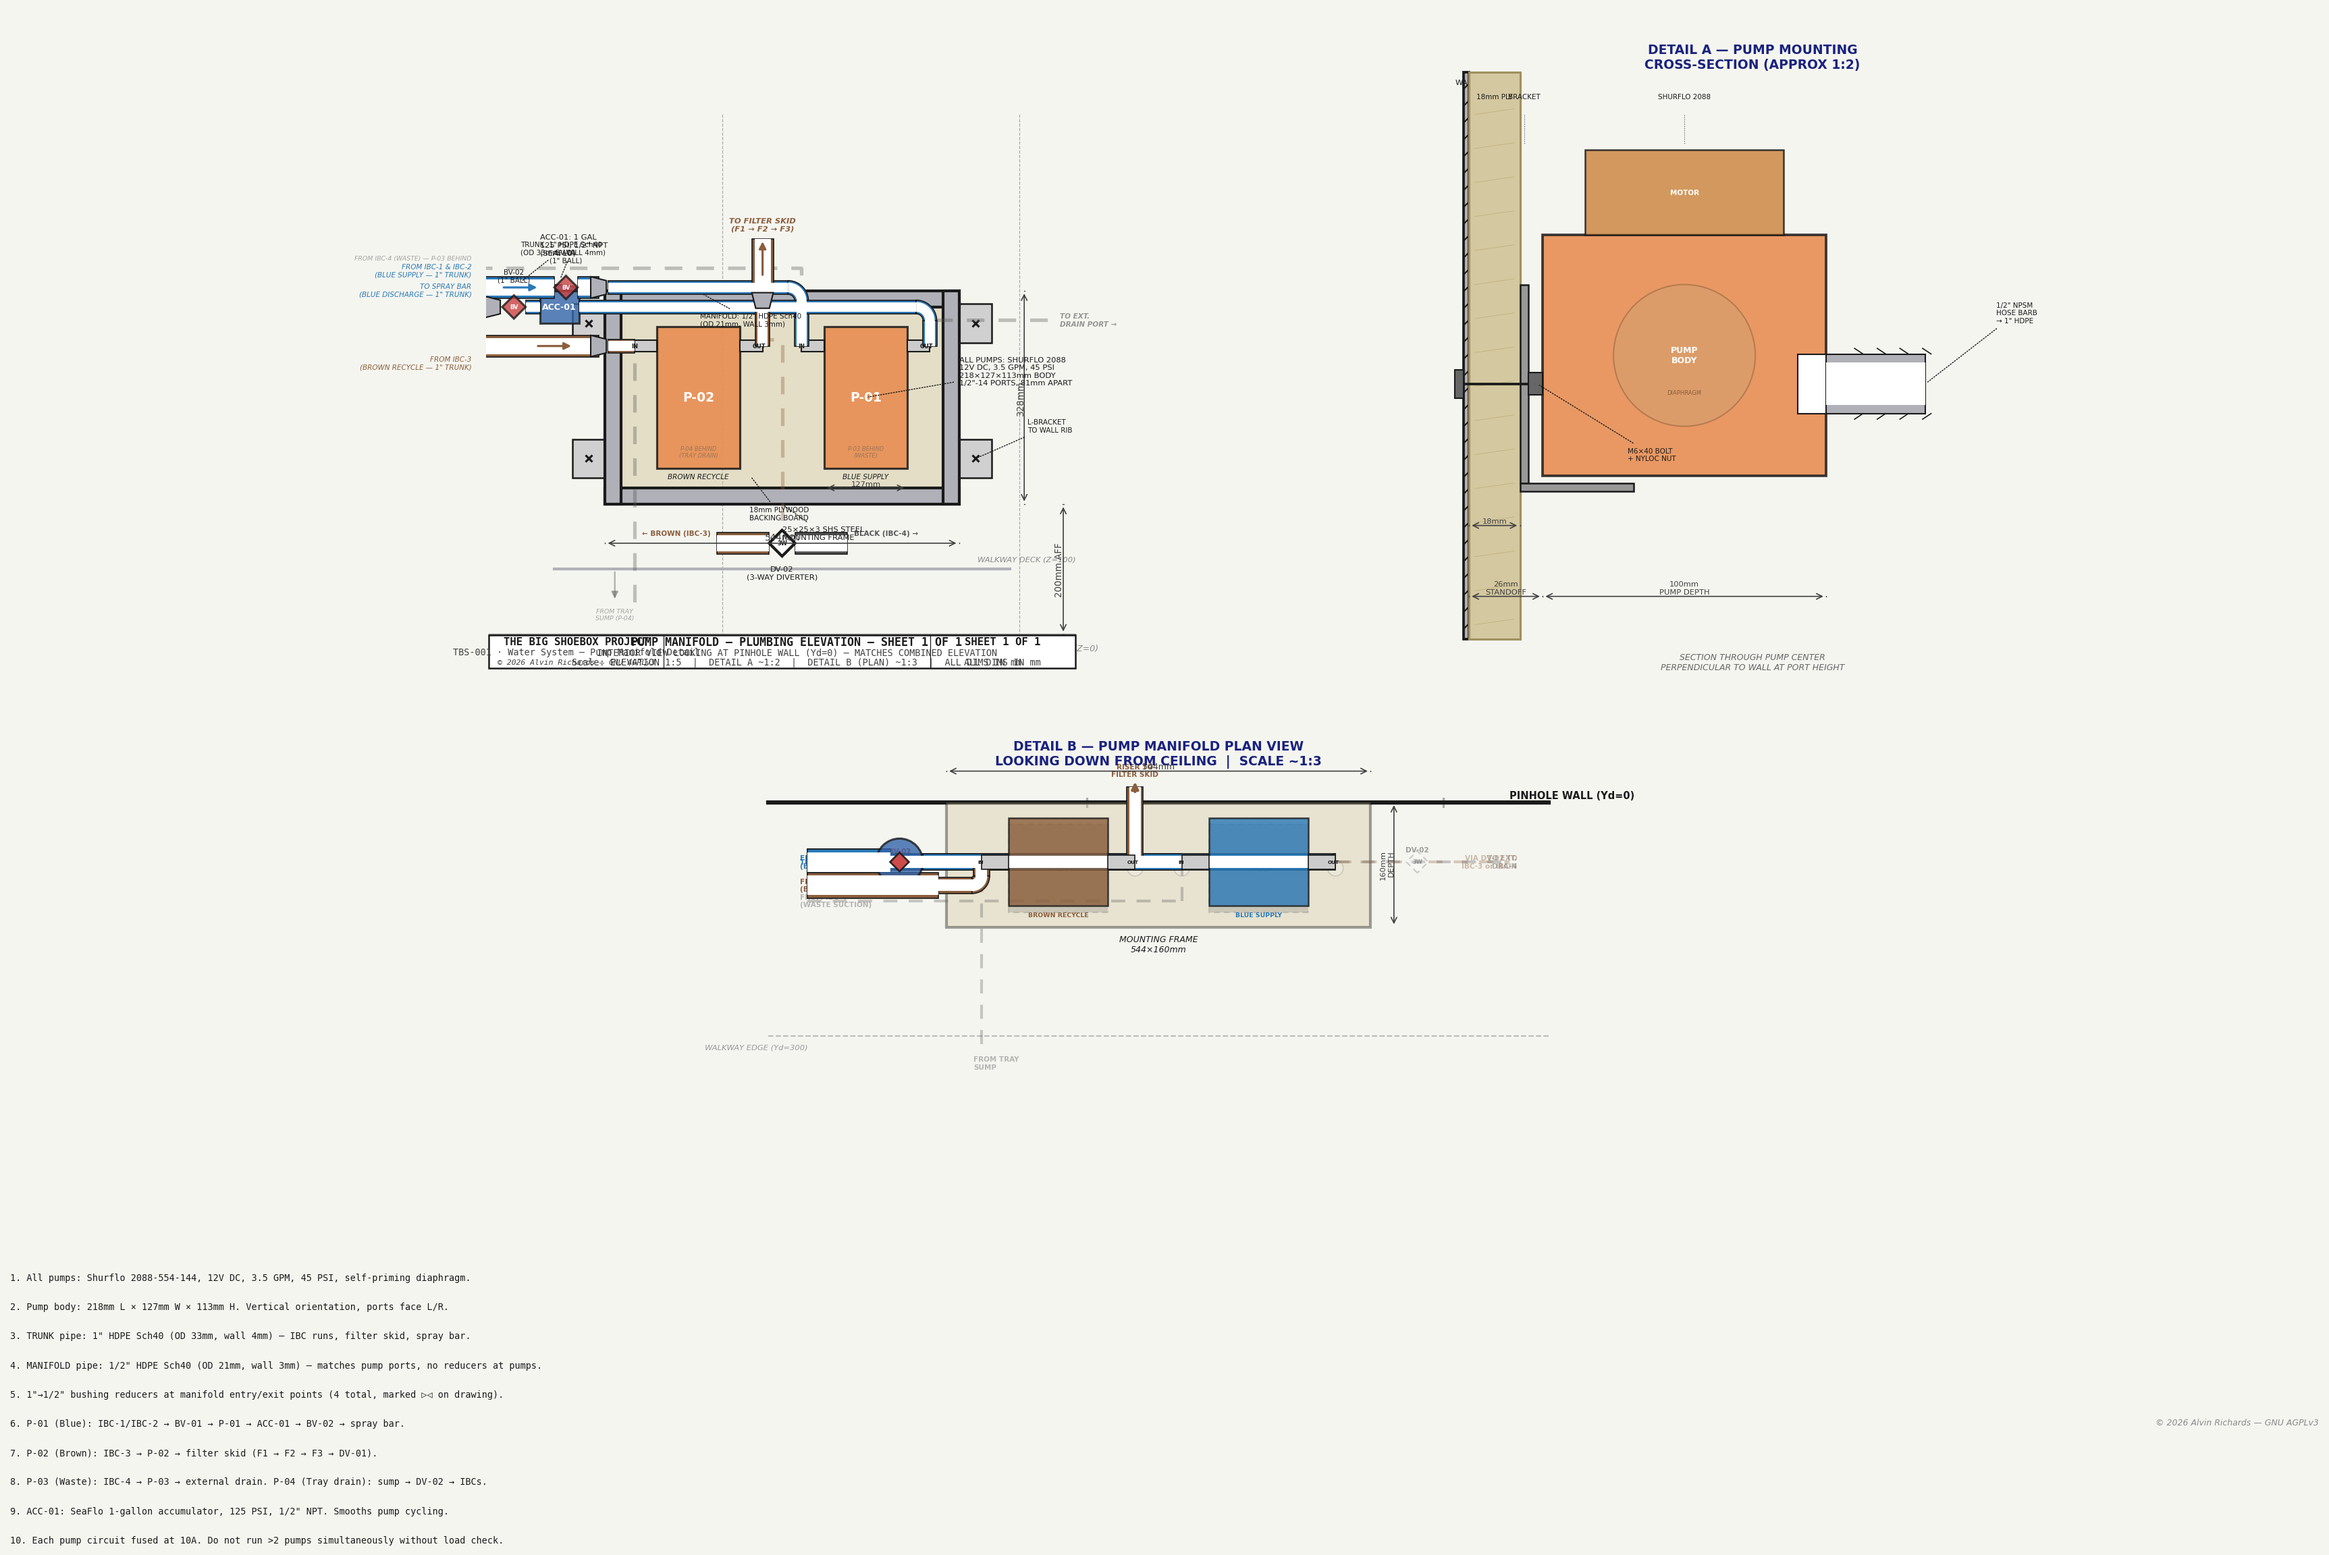
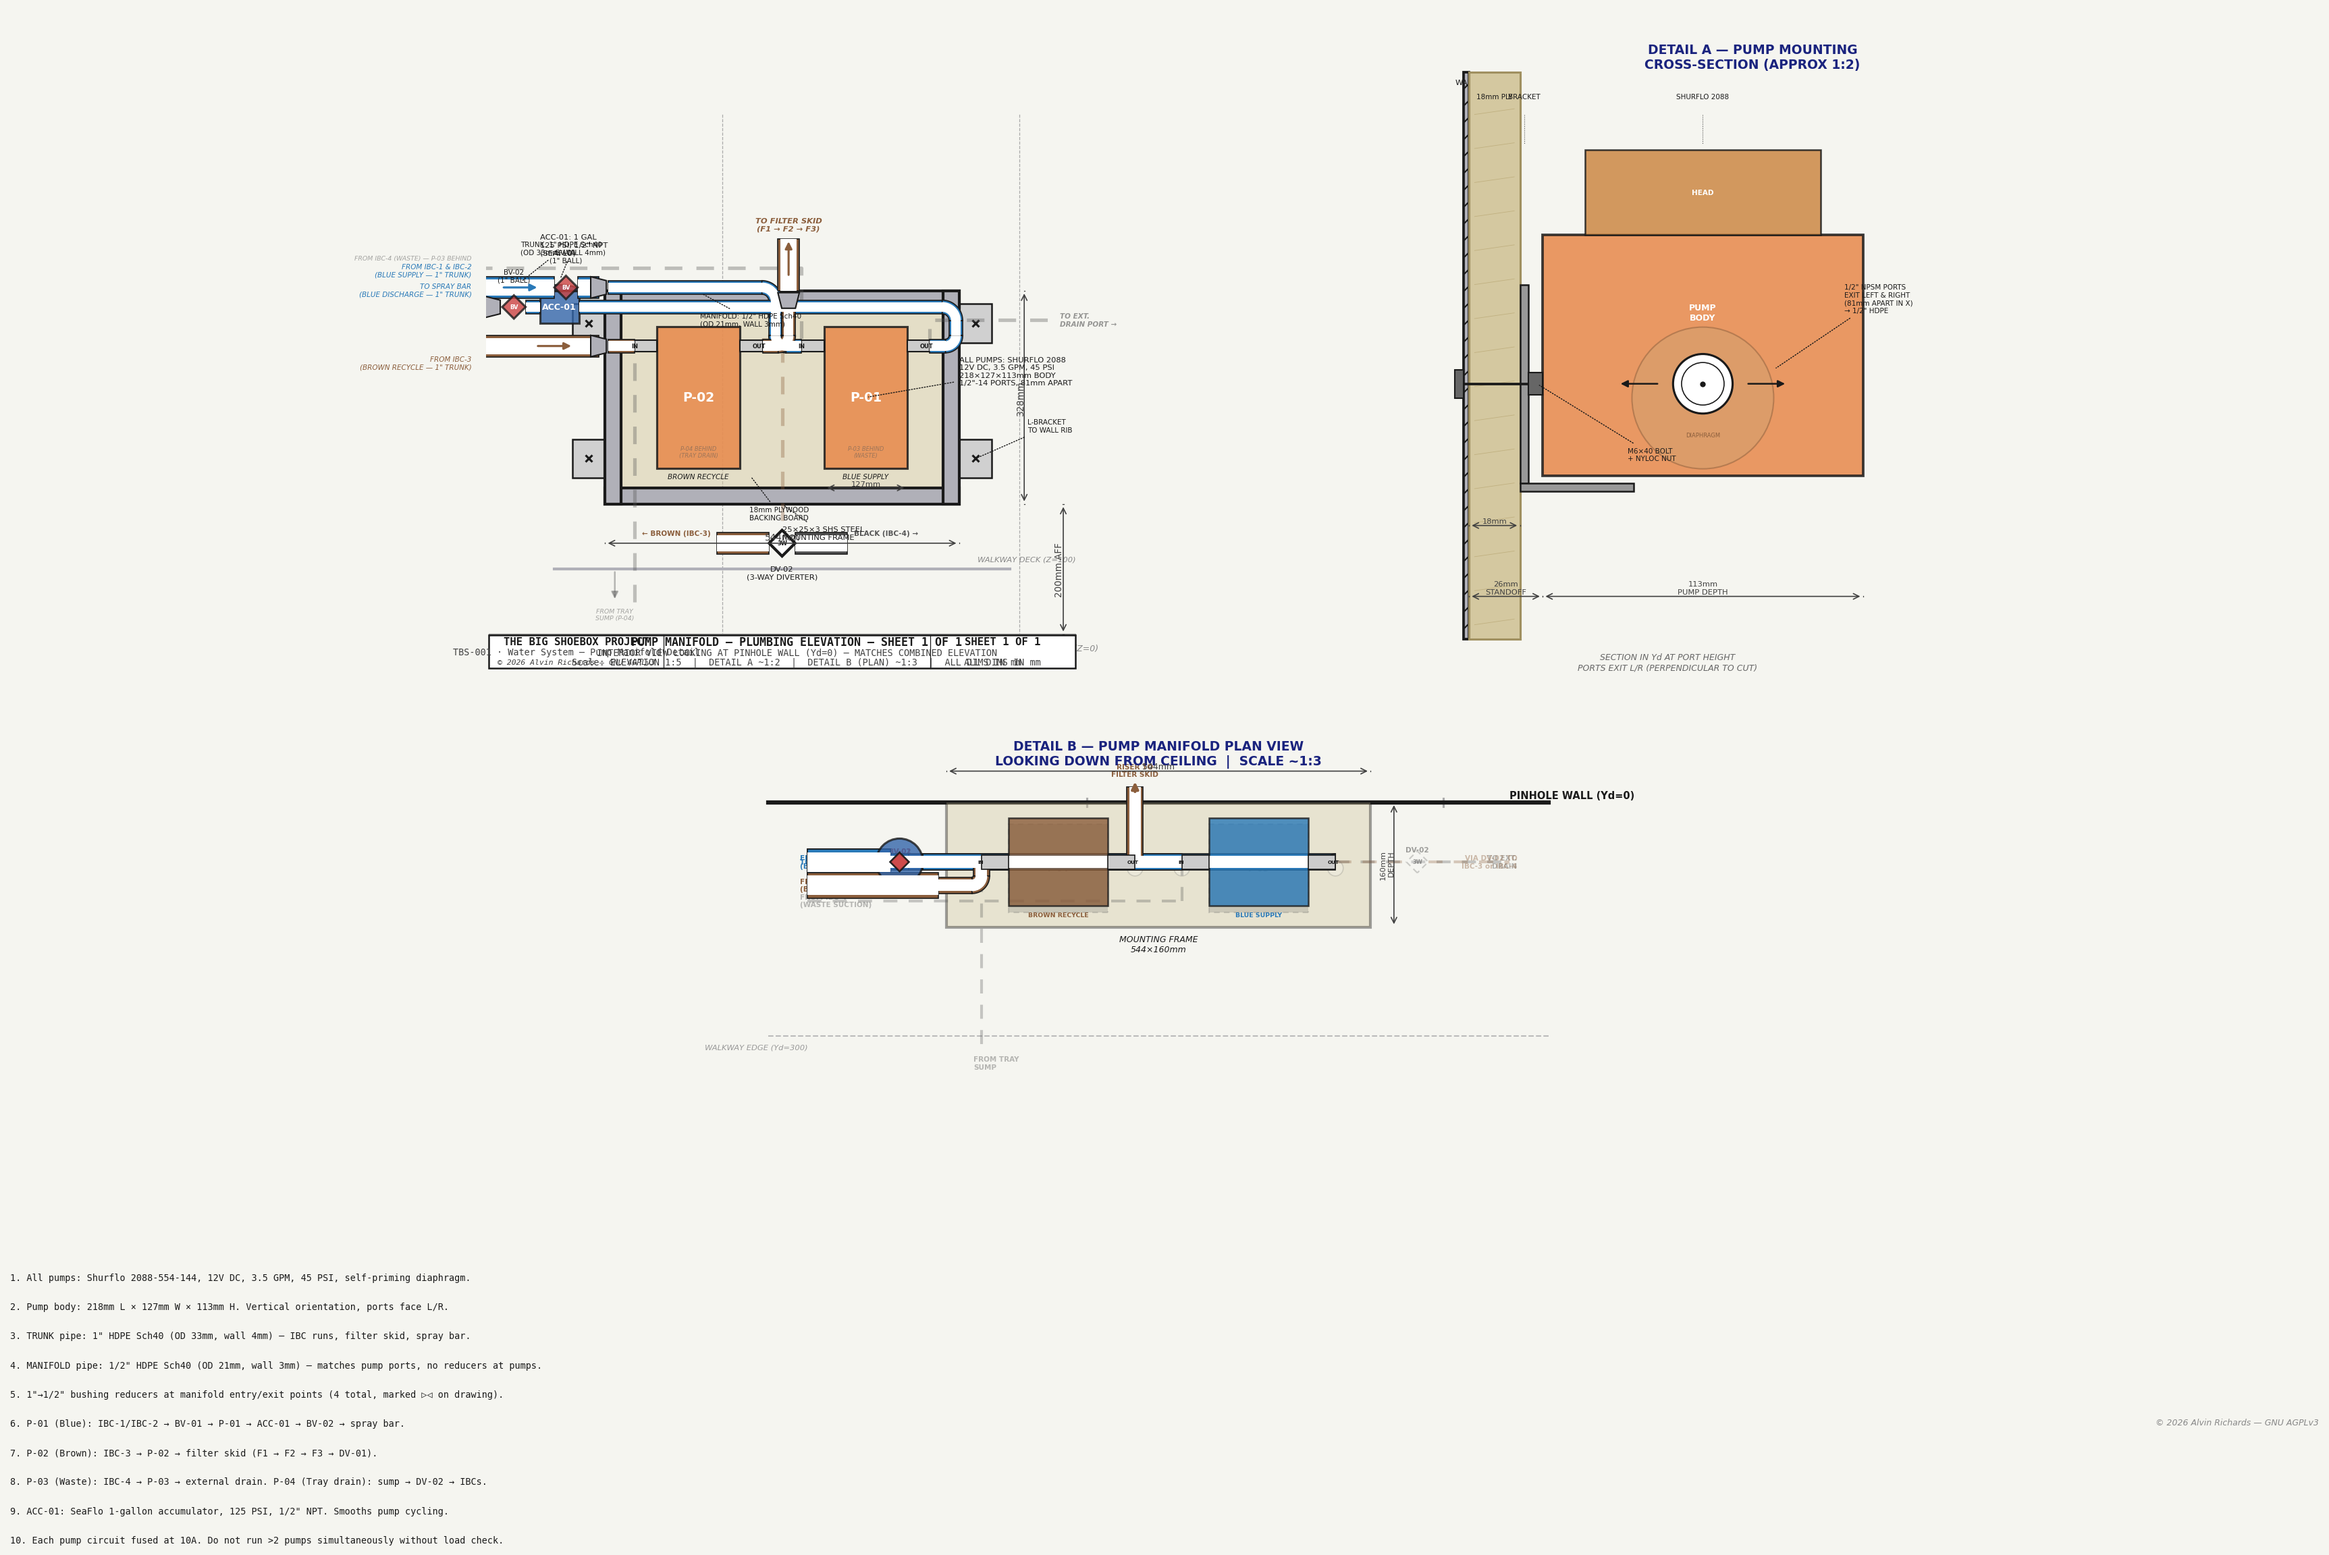
Add 90° elbows at pump port connections, fix Detail A port orientation
Elevation: pipes now show two 90° elbows into each pump — horizontal header
to vertical drop to horizontal port stub. Detail A cross-section updated to
show port as circular bore (exits sideways in X) instead of front-face stub.

Changed region(s): [[0.7133, 0.0938, 0.8374, 0.3125], [0.3101, 0.125, 0.4342, 0.25], [0.7133, 0.4062, 0.7754, 0.4375]]

diff --git a/generate_pump_manifold_diagram.py b/generate_pump_manifold_diagram.py
@@ -519,18 +519,19 @@ draw_pipe_path(ax,
 # Reducer symbol
 draw_reducer(ax, TRANS_BLUE_IN_X, HEADER_Z_BLUE_SUC, "h")
 
-# Manifold (1/2"): reducer → header → drop to P-01 IN port
+# Manifold (1/2"): reducer → header → 90° drop → 90° horizontal into P-01 IN
+ELBOW_OFFSET = 40  # offset from port stub end for visible elbow
 draw_pipe_path(ax,
-    [TRANS_BLUE_IN_X - 15, p01_in_x, p01_in_x],
-    [HEADER_Z_BLUE_SUC, HEADER_Z_BLUE_SUC, PORT_Z],
+    [TRANS_BLUE_IN_X - 15, p01_in_x + ELBOW_OFFSET, p01_in_x + ELBOW_OFFSET, p01_in_x],
+    [HEADER_Z_BLUE_SUC, HEADER_Z_BLUE_SUC, PORT_Z, PORT_Z],
     OD_H, WALL_H, fc=C_BLUE, zorder=6)
 
 # ── Blue discharge: P-01 OUT (1/2") → ACC-01 → BV-02 → reducer → exit (1") ──
 
-# Manifold (1/2"): P-01 OUT → up → ACC-01
+# Manifold (1/2"): P-01 OUT → 90° horizontal left → 90° up → header → ACC-01
 draw_pipe_path(ax,
-    [p01_out_x, p01_out_x, ACC_X],
-    [PORT_Z, HEADER_Z_BLUE_DISCH, HEADER_Z_BLUE_DISCH],
+    [p01_out_x, p01_out_x - ELBOW_OFFSET, p01_out_x - ELBOW_OFFSET, ACC_X],
+    [PORT_Z, PORT_Z, HEADER_Z_BLUE_DISCH, HEADER_Z_BLUE_DISCH],
     OD_H, WALL_H, fc=C_BLUE, zorder=6)
 
 # Manifold (1/2"): ACC-01 exit → BV-02
@@ -568,26 +569,27 @@ draw_pipe_path(ax,
 # ── Brown discharge: P-02 OUT (1/2") → riser → reducer → filter skid (1") ─
 RISER_EXIT_Z = HEADER_Z_BROWN_DISCH + 80
 
-# Manifold (1/2"): P-02 OUT → up to transition Z
+# Manifold (1/2"): P-02 OUT → 90° horizontal left → 90° up to transition Z
 draw_pipe_path(ax,
-    [p02_out_x, p02_out_x],
-    [PORT_Z, TRANS_BROWN_OUT_Z],
+    [p02_out_x, p02_out_x - ELBOW_OFFSET, p02_out_x - ELBOW_OFFSET],
+    [PORT_Z, PORT_Z, TRANS_BROWN_OUT_Z],
     OD_H, WALL_H, fc=C_BROWN, zorder=6)
 
-# Reducer (vertical)
-draw_reducer(ax, p02_out_x, TRANS_BROWN_OUT_Z, "v")
+# Reducer (vertical) — on the riser at the elbow offset X
+BROWN_RISER_X = p02_out_x - ELBOW_OFFSET
+draw_reducer(ax, BROWN_RISER_X, TRANS_BROWN_OUT_Z, "v")
 
 # Trunk (1"): transition → riser exit to filter skid
 draw_pipe_path(ax,
-    [p02_out_x, p02_out_x],
+    [BROWN_RISER_X, BROWN_RISER_X],
     [TRANS_BROWN_OUT_Z + 15, RISER_EXIT_Z],
     OD_1, WALL_1, fc=C_BROWN, zorder=6)
 
 # Riser exit arrow and annotation
-ax.annotate("", xy=(sx(p02_out_x), sz(RISER_EXIT_Z)),
-            xytext=(sx(p02_out_x), sz(RISER_EXIT_Z - 60)),
+ax.annotate("", xy=(sx(BROWN_RISER_X), sz(RISER_EXIT_Z)),
+            xytext=(sx(BROWN_RISER_X), sz(RISER_EXIT_Z - 60)),
             arrowprops=dict(arrowstyle="-|>", color=C_BROWN, lw=1.5), zorder=10)
-ax.text(sx(p02_out_x), sz(RISER_EXIT_Z + 10),
+ax.text(sx(BROWN_RISER_X), sz(RISER_EXIT_Z + 10),
         "TO FILTER SKID\n(F1 → F2 → F3)", ha="center", va="bottom",
         fontsize=5.5, color=C_BROWN, style="italic", fontweight="bold")
 
@@ -879,74 +881,72 @@ leader(ax2, sa_y(bolt_y_head + 3), sa_z(BOLT_Z_A),
        "M6×40 BOLT\n+ NYLOC NUT", fs=5)
 
 # ── 4. Pump body (cross-section) ────────────────────────────────────────────
+# Vertical pump: section cut in Yd shows 113mm depth × pump head zone height
 PUMP_YD = BRACKET_YD + BRACKET_THICK_A + 5  # small gap
-PUMP_DEPTH = 100   # depth in Yd direction
-PUMP_SEC_H = 85    # height in section
+PUMP_DEPTH = 113   # actual pump depth in Yd (4.45" from datasheet)
+PUMP_SEC_H = 85    # visible height in section (head zone)
 
 # Pump body rectangle
 ax2.add_patch(plt.Rectangle((sa_y(PUMP_YD), sa_z(-PUMP_SEC_H / 2 + 10)),
               PUMP_DEPTH / SC_A, PUMP_SEC_H / SC_A,
               fc=C_PUMP_BODY, ec=C_FRAME, lw=1.8, alpha=0.85, zorder=5))
 
-ax2.text(sa_y(PUMP_YD + PUMP_DEPTH / 2), sa_z(10),
+ax2.text(sa_y(PUMP_YD + PUMP_DEPTH / 2), sa_z(25),
          "PUMP\nBODY", ha="center", va="center",
          fontsize=6, color="white", fontweight="bold", zorder=6)
 
 # Diaphragm chamber indication (internal circle)
 chamber_cx = PUMP_YD + PUMP_DEPTH / 2
-chamber_cz = 10
+chamber_cz = -5
 chamber_r = 25
 ax2.add_patch(plt.Circle((sa_y(chamber_cx), sa_z(chamber_cz)), chamber_r / SC_A,
               fc="#D0A070", ec="#8B5E3C", lw=1.0, alpha=0.5, zorder=5.5))
 ax2.text(sa_y(chamber_cx), sa_z(chamber_cz - 12), "DIAPHRAGM",
          ha="center", va="top", fontsize=4, color="#8B5E3C", zorder=6)
 
-# Motor dome (top)
+# Motor indication (below — motor is at the bottom of the vertical pump)
 motor_z_bot = -PUMP_SEC_H / 2 + 10 + PUMP_SEC_H
 motor_h = 30
 ax2.add_patch(plt.Rectangle((sa_y(PUMP_YD + 15), sa_z(motor_z_bot)),
               (PUMP_DEPTH - 30) / SC_A, motor_h / SC_A,
               fc="#CC8844", ec=C_FRAME, lw=1.2, alpha=0.85, zorder=5))
 ax2.text(sa_y(PUMP_YD + PUMP_DEPTH / 2), sa_z(motor_z_bot + motor_h / 2),
-         "MOTOR", ha="center", va="center",
+         "HEAD", ha="center", va="center",
          fontsize=5, color="white", fontweight="bold", zorder=6)
 
-# ── 5. Port stubs (1/2" NPSM) ──────────────────────────────────────────────
-PORT_YD = PUMP_YD + PUMP_DEPTH  # port exits front face
+# ── 5. Port bores (1/2" NPSM — exit SIDEWAYS in X, not front face) ────────
+# In this Yd section, the ports project LEFT and RIGHT out of the page.
+# They appear as circles (cross-section through the port bore).
 PORT_OD_SEC = 21   # 1/2" pipe OD ~21mm
 PORT_WALL_SEC = 3
-PORT_Z_SEC = 0
+PORT_Z_SEC = 0     # port center Z (relative to section center)
 
-# Port bore through pump body
-ax2.add_patch(plt.Rectangle((sa_y(PORT_YD - 10), sa_z(PORT_Z_SEC - PORT_OD_SEC / 2)),
-              10 / SC_A, PORT_OD_SEC / SC_A,
-              fc="white", ec=C_FRAME, lw=1.0, zorder=6))
+# Port bore — shown as a circle with dashed line indicating it exits sideways
+port_bore_yd = PUMP_YD + PUMP_DEPTH / 2  # approximate center of head zone in Yd
+port_bore_r = PORT_OD_SEC / 2
 
-# Hose barb fitting
-BARB_LEN = 35
-# Outer wall
-ax2.add_patch(plt.Rectangle((sa_y(PORT_YD), sa_z(PORT_Z_SEC - PORT_OD_SEC / 2)),
-              BARB_LEN / SC_A, PORT_OD_SEC / SC_A,
-              fc=C_STEEL_FILL, ec=C_FRAME, lw=1.0, zorder=5))
+# Outer bore circle (port tube cross-section)
+ax2.add_patch(plt.Circle((sa_y(port_bore_yd), sa_z(PORT_Z_SEC)),
+              port_bore_r / SC_A, fc="white", ec=C_FRAME, lw=1.5, zorder=6))
 # Inner bore
-ax2.add_patch(plt.Rectangle(
-    (sa_y(PORT_YD), sa_z(PORT_Z_SEC - PORT_OD_SEC / 2 + PORT_WALL_SEC)),
-    BARB_LEN / SC_A, (PORT_OD_SEC - 2 * PORT_WALL_SEC) / SC_A,
-    fc="white", ec="none", zorder=6))
+ax2.add_patch(plt.Circle((sa_y(port_bore_yd), sa_z(PORT_Z_SEC)),
+              (port_bore_r - PORT_WALL_SEC) / SC_A,
+              fc="white", ec=C_FRAME, lw=0.8, zorder=6.5))
+# Center dot (convention for a bore going into the page)
+ax2.plot(sa_y(port_bore_yd), sa_z(PORT_Z_SEC), 'o',
+         color=C_FRAME, markersize=3, zorder=7)
 
-# Barb ridges
-for bx in range(10, BARB_LEN, 8):
-    barb_yd = PORT_YD + bx
-    ax2.plot([sa_y(barb_yd), sa_y(barb_yd + 3)],
-             [sa_z(PORT_Z_SEC - PORT_OD_SEC / 2 - 2), sa_z(PORT_Z_SEC - PORT_OD_SEC / 2)],
-             color=C_FRAME, lw=0.8, zorder=6)
-    ax2.plot([sa_y(barb_yd), sa_y(barb_yd + 3)],
-             [sa_z(PORT_Z_SEC + PORT_OD_SEC / 2 + 2), sa_z(PORT_Z_SEC + PORT_OD_SEC / 2)],
-             color=C_FRAME, lw=0.8, zorder=6)
+# Arrow showing port direction (exits sideways in X)
+ax2.annotate("", xy=(sa_y(port_bore_yd + 30), sa_z(PORT_Z_SEC)),
+             xytext=(sa_y(port_bore_yd + 15), sa_z(PORT_Z_SEC)),
+             arrowprops=dict(arrowstyle="-|>", color=C_FRAME, lw=1.2), zorder=8)
+ax2.annotate("", xy=(sa_y(port_bore_yd - 30), sa_z(PORT_Z_SEC)),
+             xytext=(sa_y(port_bore_yd - 15), sa_z(PORT_Z_SEC)),
+             arrowprops=dict(arrowstyle="-|>", color=C_FRAME, lw=1.2), zorder=8)
 
-leader(ax2, sa_y(PORT_YD + BARB_LEN), sa_z(PORT_Z_SEC),
-       sa_y(PORT_YD + BARB_LEN + 25), sa_z(PORT_Z_SEC + 25),
-       "1/2\" NPSM\nHOSE BARB\n→ 1\" HDPE", fs=5)
+leader(ax2, sa_y(port_bore_yd + 25), sa_z(PORT_Z_SEC + 5),
+       sa_y(port_bore_yd + 50), sa_z(PORT_Z_SEC + 30),
+       "1/2\" NPSM PORTS\nEXIT LEFT & RIGHT\n(81mm APART IN X)\n→ 1/2\" HDPE", fs=5)
 
 # ── Overall standoff dimension ───────────────────────────────────────────────
 total_standoff = PLY_THICK + BRACKET_THICK_A + 5  # 18 + 3 + 5 = 26mm
@@ -971,8 +971,8 @@ for ly, ltxt in label_items:
              color=C_DIM, lw=0.5, ls=":", zorder=2)
 
 # Section cut indicator note
-ax2.text(sa_y(100), sa_z(-95),
-         "SECTION THROUGH PUMP CENTER\nPERPENDICULAR TO WALL AT PORT HEIGHT",
+ax2.text(sa_y(70), sa_z(-95),
+         "SECTION IN Yd AT PORT HEIGHT\nPORTS EXIT L/R (PERPENDICULAR TO CUT)",
          ha="center", va="top", fontsize=6, color="#666666", style="italic")
 
 
